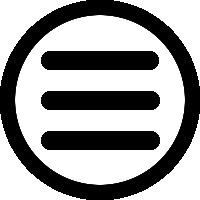
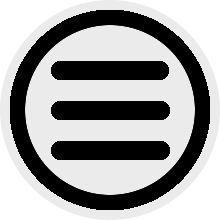
e

diff --git a/css/Style_Tel.css b/css/Style_Tel.css
@@ -105,7 +105,7 @@ footer
 	border-bottom: none;
 	border-radius-bottom: 0px;
 	border-radius-top: 10px;
-	padding: 25px 0 15px 0;
+	padding: 40px 0 15px 0;
 	line-height: 24px;
 	width: 100%;
 	height: auto;
@@ -133,6 +133,20 @@ h2
 	font-family: "Marker Felt",Avantgarde, "TeX Gyre Adventor", "URW Gothic L", sans-serif ;
 }
 
+.button_nav_tel
+{
+	display:block;
+	position: fixed;
+	top: 10px;
+	right: 10px;
+	z-index: 15;
+	background-color: rgba(0, 0, 0, 0);
+	text-align: right;
+	border: none rgba(0, 0, 0, 0);
+	height:10%;
+}
+
+
 .menuTelephone
 {
 	display:block;
@@ -145,27 +159,23 @@ h2
 	height: 100%;
 }
 
+
 .menuTelephone *
 {
 	background-color: rgba(0, 0, 0, 0);
 	border-color: rgba(0, 0, 0, 0);
 	text-align: right;
 }
-
-.menuTelephone button:hover, .menuTelephone button:focus
-{
-	background-color: rgba(0, 0, 0, 0);
-	border-color: rgba(0, 0, 0, 0);
-	box-shadow: 0 0 0 0.2rem rgba(0, 0, 0, 0);
-}
-
 .div_nav_tel
 {
 	position: absolute;
 	bottom: 0px;
-	background-color: rgba(216, 216, 216, 0.75	);
+	background-color: rgba(216, 216, 216, 0.85	);
 	height: 90%;
 	text-align: center;
+	border-width: 5px 0px 0px 0px;
+	border-style: solid;
+	border-radius: 20px 20px 0px 0px;
 	width:100%;
 }
 
@@ -199,6 +209,22 @@ h2
 	text-align: center;
 	
 }
+
+.menuTelephone div .btn-info:hover, .menuTelephone div .btn-info:focus
+{
+	background-color: rgba(0, 0, 0, 0);
+	border-color: rgba(0, 0, 0, 0);
+	box-shadow: 0 0 0 0.2rem rgba(0, 0, 0, 0);
+}
+
+.list_nav_tel li a button
+{
+	font-size: 30px;
+	color: #122F7D;
+	text-align: center;
+	background-color: rgba(0, 0, 0, 1);
+	
+}
 nav div a
 {
 }
@@ -208,6 +234,7 @@ section
 	padding: 5%;
 	margin: 3%;
 	padding-top: 10px;
+	margin-bottom: 25px;
 	border: 10px double #D24444;
 	box-shadow: 20px 20px 5px #A82E2E;
 	border-radius: 20px;

diff --git a/Tp.html b/Tp.html
@@ -50,13 +50,13 @@
 			</div>
 		</nav>
 
-		<nav class="menuTelephone">
-			<button type="button" class="btn btn-info" data-toggle="collapse" data-target="#nav_collapse"><img src="./img/index.png" width="25%"/></button>
-			<div id="nav_collapse" class="collapse div_nav_tel" >
-				<ul class="list_nav_tel">
-					<li> <a href="#Tableau"><button type="button"  data-toggle="collapse" data-target="#nav_collapse">Tableau</button></a></li>
-					<li> <a href="#Recherche"><button type="button"  data-toggle="collapse" data-target="#nav_collapse">Recherche</button></a></li>
-					<li> <a href="#Avis"><button type="button"  data-toggle="collapse" data-target="#nav_collapse">Avis</button></a></li>
+		<button type="button" class="button_nav_tel" data-toggle="collapse" data-target="#nav_collapse"><img src="./img/index.png" width="25%"/></button>
+		<nav id="nav_collapse" class="collapse menuTelephone">
+			<div  class="div_nav_tel" >
+				<ul class="list_nav_tel" data-toggle="collapse" data-target="#nav_collapse"">
+					<li> <a href="#Tableau">Tableau</a></li>
+					<li> <a href="#Recherche">Recherche</a></li>
+					<li> <a href="#Avis">Avis</a></li>
 				</ul>
 			</div>
 		</nav>

diff --git a/css/Style.css b/css/Style.css
@@ -145,10 +145,11 @@ nav button
 	display: none;
 }
 
-.menuTelephone
+.menuTelephone, .button_nav_tel
 {
 	display: none;
 	bakground: rgba(0, 0, 0, 0);
+	z-index: -50;
 }
 
 nav div
